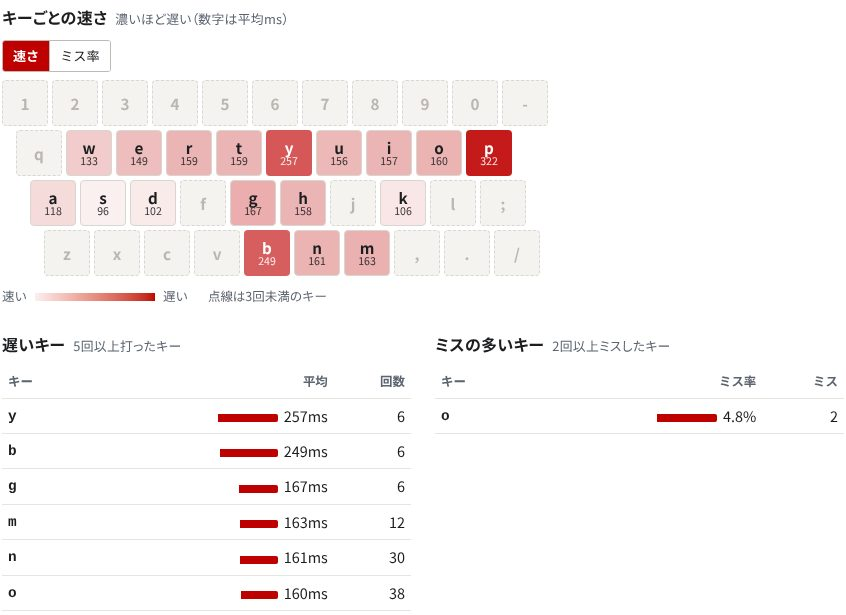
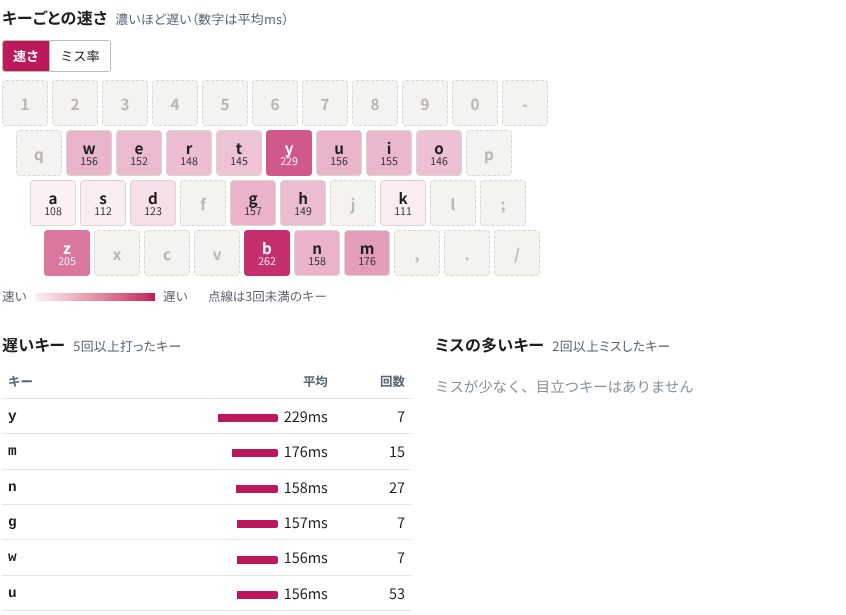
タイピング診断を「学習」のカテゴリに移す
分野の色・パンくず・同じカテゴリのツール・トップとカテゴリの一覧・OGP画像を学習に合わせ、
診断結果の例の画像も学習の色で撮り直す。

Claude-Session: https://claude.ai/code/session_01SKh1jhAp32CEmbZCaaEmgk

diff --git a/typing-game/index.html b/typing-game/index.html
@@ -175,8 +175,8 @@ tr.me td{ background:color-mix(in srgb, var(--c) 8%, #fff); font-weight:700; }
 </head>
 <body>
 <!-- BREADCRUMB: scripts/static_html.py が書く。手で書き換えない -->
-<nav class="breadcrumb" aria-label="パンくずリスト"><a href="/">ToolDock</a> <span class="bc-sep">›</span> <a href="/category/?cat=game">ゲーム</a> <span class="bc-sep">›</span> <span>タイピング診断・速度測定（苦手キー分析つき）</span></nav>
-<script type="application/ld+json">{"@context": "https://schema.org", "@type": "BreadcrumbList", "itemListElement": [{"@type": "ListItem", "position": 1, "name": "ToolDock", "item": "https://tooldock.github.io/"}, {"@type": "ListItem", "position": 2, "name": "ゲーム", "item": "https://tooldock.github.io/category/?cat=game"}, {"@type": "ListItem", "position": 3, "name": "タイピング診断・速度測定（苦手キー分析つき）", "item": "https://tooldock.github.io/typing-game/"}]}</script>
+<nav class="breadcrumb" aria-label="パンくずリスト"><a href="/">ToolDock</a> <span class="bc-sep">›</span> <a href="/category/?cat=study">学習</a> <span class="bc-sep">›</span> <span>タイピング診断・速度測定（苦手キー分析つき）</span></nav>
+<script type="application/ld+json">{"@context": "https://schema.org", "@type": "BreadcrumbList", "itemListElement": [{"@type": "ListItem", "position": 1, "name": "ToolDock", "item": "https://tooldock.github.io/"}, {"@type": "ListItem", "position": 2, "name": "学習", "item": "https://tooldock.github.io/category/?cat=study"}, {"@type": "ListItem", "position": 3, "name": "タイピング診断・速度測定（苦手キー分析つき）", "item": "https://tooldock.github.io/typing-game/"}]}</script>
 <!-- /BREADCRUMB -->
 
 <div class="container">
@@ -308,8 +308,8 @@ tr.me td{ background:color-mix(in srgb, var(--c) 8%, #fff); font-weight:700; }
 
 <h2>診断結果の例</h2>
 <p>60秒、日本語の短文を打ったときの結果の例です。スコアと段位、速さ（KPM）、初速、正確率などが出ます。</p>
-<figure class="ex-fig"><img src="/typing-game/sample-result.jpg" width="846" height="316" loading="lazy" alt="タイピング診断の結果の例。スコア382・三段、速さ394打/分、初速0.18秒、正確率98.5%"></figure>
-<p>その下に、キーごとの速さがキーボードの図で出ます。この例では y と b と p が濃く、ほかのキーより時間がかかっていることが分かります。y と b は人差し指を大きく伸ばすキーで、遅くなりやすい場所です。</p>
+<figure class="ex-fig"><img src="/typing-game/sample-result.jpg" width="846" height="316" loading="lazy" alt="タイピング診断の結果の例。スコア409・四段、速さ415打/分、初速0.14秒、正確率99.3%"></figure>
+<p>その下に、キーごとの速さがキーボードの図で出ます。この例では b と y と z が濃く、ほかのキーより時間がかかっていることが分かります。b と y は人差し指を大きく伸ばすキー、z は小指で下の段を打つキーで、どちらも遅くなりやすい場所です。</p>
 <figure class="ex-fig"><img src="/typing-game/sample-analysis.jpg" width="846" height="615" loading="lazy" alt="キーごとの速さを色の濃さで表したキーボードの図と、遅いキー・ミスの多いキーの表"></figure>
 
 <h2>このタイピング診断でわかること</h2>
@@ -1143,17 +1143,11 @@ applyOpt(); idle(); hud(); renderAna(); renderHist(); badge(); fetchToken(); loa
 <section class="related-tools-section">
 <h2>同じカテゴリのツール</h2>
 <div class="related-tools-grid">
-<a href="/kyudan-clicker/" class="related-tool-card"><h3>球団経営クリッカー</h3><p>球場をタップしてファンを増やす、ドット絵の野球クリッカーゲーム。施設・試合・優勝・殿堂・実績とやり込み要素たっぷり。球団名とユニフォームの色も決められます。</p></a>
-<a href="/mylife-start/" class="related-tool-card"><h3>パワプロ2026-2027 マイライフ アピールポイントのすゝめ</h3><p>経歴・ドラフト順位・アピールポイント・ウィークポイントによる初期能力とボーナスの解説です。</p></a>
-<a href="/eikan-kintoku/" class="related-tool-card"><h3>パワプロ2026-2027 栄冠ナイン 金特の入手方法まとめ</h3><p>金特本・国際大会・特訓の3つの手段。欲しい金特から狙う評価を逆引きできます。</p></a>
-<a href="/shippo/" class="related-tool-card"><h3>パワプロ2026-2027 マイライフ 尻尾 入手方法一覧</h3><p>尻尾12種の入手方法とオススメ度。9個でMAXになるので、あと何個かも分かります。</p></a>
-<a href="/crystal-banno/" class="related-tool-card"><h3>パワプロ2026-2027 マイライフ 万能クリスタル（小）（大）入手方法一覧</h3><p>万能クリスタル（小）9通りと（大）の入手方法を、チェックしながら管理できる一覧。</p></a>
-<a href="/crystal/" class="related-tool-card"><h3>パワプロ2026-2027 マイライフ イベントクリスタル（小）（大）入手方法一覧</h3><p>特殊能力ファイルに使うイベントクリスタルの入手方法と、怪しい露店の交換レート一覧。</p></a>
-<a href="/kintoku/" class="related-tool-card"><h3>パワプロ2026-2027 マイライフ 能力研究所の金特ミッション一覧</h3><p>マイライフの能力研究所で受けられる金特ミッションの内容と取得条件の一覧。2024-2025 とも共通です。</p></a>
-<a href="/satei/" class="related-tool-card"><h3>パワプロ2026-2027 ⭐(星)計算ツール</h3><p>能力値と所持する特殊能力を入力すると、査定である☆(星)を計算します。</p></a>
-<a href="/nouryoku/" class="related-tool-card"><h3>パワプロ風 能力画像ジェネレーター（野手）</h3><p>パワプロ風の能力画像を作れる能力メーカー。野手の能力値と特殊能力を入れるだけで、選手能力カード風の画像を作成できます。</p></a>
-<a href="/nouryoku-pitcher/" class="related-tool-card"><h3>パワプロ風 能力画像ジェネレーター（投手）</h3><p>パワプロ風の能力画像を作れる能力メーカー。投手の能力値・変化球と特殊能力を入れるだけで、選手能力カード風の画像を作成できます。</p></a>
-<a href="/stamen/" class="related-tool-card"><h3>パワプロ風 スタメン画像ジェネレーター</h3><p>名前・守備位置・調子を入れるだけで、パワプロ風のスターティングオーダーを画像・GIFアニメ・動画にできます。</p></a>
+<a href="/gpa/" class="related-tool-card"><h3>GPA計算ツール（目標から逆算）</h3><p>科目の単位と成績から学期・通算のGPAを計算。目標のGPAに必要な平均と、Sがあと何単位必要かを逆算できます。</p></a>
+<a href="/naishin/aichi/" class="related-tool-card"><h3>愛知県 内申点・校内順位の計算（2027年入試）</h3><p>中3の評定から評定得点（90点）を出し、志望校の方式（Ⅰ〜Ⅴ）で学力検査（110点）と合わせた数値を計算。目標に必要な当日点も逆算。</p></a>
+<a href="/naishin/kanagawa/" class="related-tool-card"><h3>神奈川県 内申点・S値計算（2027年入試）</h3><p>志望校の比率で内申点・S1値・S2値を計算し、目標のS値に必要な当日点も逆算できるツール。普通科109校の選考基準を収録。</p></a>
+<a href="/naishin/osaka/" class="related-tool-card"><h3>大阪府 内申点・総合点計算（2027年入試）</h3><p>中1〜中3の評定から内申点（450点）を出し、志望校の倍率タイプで総合点（900点）を計算。目標に必要な当日点も逆算。全日制124校を収録。</p></a>
+<a href="/naishin/tokyo/" class="related-tool-card"><h3>東京都 内申点・換算内申計算（2027年都立入試）</h3><p>中3の評定から換算内申・調査書点を出し、当日点とスピーキングテストを足した総合得点（1020点）と、目標に必要な当日点を計算。</p></a>
 </div>
 </section>
 <!-- /RELATED --></div>

diff --git a/index.html b/index.html
@@ -222,8 +222,8 @@ ToolDockは、ブラウザだけで使える無料のWebツールを集めたサ
     <a class="c-tax" href="#cat-tax">税金<span>4</span></a>
     <a class="c-work" href="#cat-work">業務<span>8</span></a>
     <a class="c-math" href="#cat-math">数学<span>10</span></a>
-    <a class="c-study" href="#cat-study">学習<span>5</span></a>
-    <a class="c-game" href="#cat-game">ゲーム<span>12</span></a>
+    <a class="c-study" href="#cat-study">学習<span>6</span></a>
+    <a class="c-game" href="#cat-game">ゲーム<span>11</span></a>
     <a class="c-baseball" href="#cat-baseball">野球<span>10</span></a>
   </nav>
   <section class="cat" id="updates">
@@ -323,20 +323,20 @@ ToolDockは、ブラウザだけで使える無料のWebツールを集めたサ
   </ul>
   </section>
   <section class="cat c-study" id="cat-study">
-  <h2>学習<span class="cat-n">5</span></h2>
+  <h2>学習<span class="cat-n">6</span></h2>
   <ul class="tool-grid">
     <li><a class="tool-card c-study" href="/gpa/"><span class="tc-title">GPA計算ツール（目標から逆算）</span><span class="tc-desc">科目の単位と成績から学期・通算のGPAを計算。目標のGPAに必要な平均と、Sがあと何単位必要かを逆算できます。</span></a></li>
     <li><a class="tool-card c-study" href="/naishin/aichi/"><span class="tc-title">愛知県 内申点・校内順位の計算（2027年入試）</span><span class="tc-desc">中3の評定から評定得点（90点）を出し、志望校の方式（Ⅰ〜Ⅴ）で学力検査（110点）と合わせた数値を計算。目標に必要な当日点も逆算。</span></a></li>
     <li><a class="tool-card c-study" href="/naishin/kanagawa/"><span class="tc-title">神奈川県 内申点・S値計算（2027年入試）</span><span class="tc-desc">志望校の比率で内申点・S1値・S2値を計算し、目標のS値に必要な当日点も逆算できるツール。普通科109校の選考基準を収録。</span></a></li>
     <li><a class="tool-card c-study" href="/naishin/osaka/"><span class="tc-title">大阪府 内申点・総合点計算（2027年入試）</span><span class="tc-desc">中1〜中3の評定から内申点（450点）を出し、志望校の倍率タイプで総合点（900点）を計算。目標に必要な当日点も逆算。全日制124校を収録。</span></a></li>
     <li><a class="tool-card c-study" href="/naishin/tokyo/"><span class="tc-title">東京都 内申点・換算内申計算（2027年都立入試）</span><span class="tc-desc">中3の評定から換算内申・調査書点を出し、当日点とスピーキングテストを足した総合得点（1020点）と、目標に必要な当日点を計算。</span></a></li>
+    <li><a class="tool-card c-study" href="/typing-game/"><span class="tc-title">タイピング診断・速度測定（苦手キー分析つき）</span><span class="tc-desc">打つだけでタイピングの速さ（KPM）と正確率を測り、苦手キー・指ごとの速さ・遅い並び・ローマ字のクセまで診断する無料タイピングゲーム。ランキングつき。</span></a></li>
   </ul>
   </section>
   <section class="cat c-game" id="cat-game">
-  <h2>ゲーム<span class="cat-n">12</span></h2>
+  <h2>ゲーム<span class="cat-n">11</span></h2>
   <ul class="tool-grid">
     <li><a class="tool-card c-game" href="/kyudan-clicker/"><span class="tc-title">球団経営クリッカー</span><span class="tc-desc">球場をタップしてファンを増やす、ドット絵の野球クリッカーゲーム。施設・試合・優勝・殿堂・実績とやり込み要素たっぷり。球団名とユニフォームの色も決められます。</span></a></li>
-    <li><a class="tool-card c-game" href="/typing-game/"><span class="tc-title">タイピング診断・速度測定（苦手キー分析つき）</span><span class="tc-desc">打つだけでタイピングの速さ（KPM）と正確率を測り、苦手キー・指ごとの速さ・遅い並び・ローマ字のクセまで診断する無料タイピングゲーム。ランキングつき。</span></a></li>
     <li><a class="tool-card c-game" href="/mylife-start/"><span class="tc-title">パワプロ2026-2027 マイライフ アピールポイントのすゝめ</span><span class="tc-desc">経歴・ドラフト順位・アピールポイント・ウィークポイントによる初期能力とボーナスの解説です。</span></a></li>
     <li><a class="tool-card c-game" href="/eikan-kintoku/"><span class="tc-title">パワプロ2026-2027 栄冠ナイン 金特の入手方法まとめ</span><span class="tc-desc">金特本・国際大会・特訓の3つの手段。欲しい金特から狙う評価を逆引きできます。</span></a></li>
     <li><a class="tool-card c-game" href="/shippo/"><span class="tc-title">パワプロ2026-2027 マイライフ 尻尾 入手方法一覧</span><span class="tc-desc">尻尾12種の入手方法とオススメ度。9個でMAXになるので、あと何個かも分かります。</span></a></li>

diff --git a/category/index.html b/category/index.html
@@ -132,7 +132,7 @@
   <a class="tool-card c-math" data-cat="math" href="/ode/"><h2>途中式付き・微分方程式ツール</h2><p>変数分離形から二階定係数線形まで、10種類の微分方程式を途中式つきで解くツール。</p></a>
   <a class="tool-card c-math" data-cat="math" href="/radix/"><h2>n進数変換ツール</h2><p>2進数・8進数・10進数・16進数など、2〜36進法の相互変換を行うツール。小数にも対応。</p></a>
   <a class="tool-card c-game" data-cat="game" href="/kyudan-clicker/"><h2>球団経営クリッカー</h2><p>球場をタップしてファンを増やす、ドット絵の野球クリッカーゲーム。施設・試合・優勝・殿堂・実績とやり込み要素たっぷり。球団名とユニフォームの色も決められます。</p></a>
-  <a class="tool-card c-game" data-cat="game" href="/typing-game/"><h2>タイピング診断・速度測定（苦手キー分析つき）</h2><p>打つだけでタイピングの速さ（KPM）と正確率を測り、苦手キー・指ごとの速さ・遅い並び・ローマ字のクセまで診断する無料タイピングゲーム。ランキングつき。</p></a>
+  <a class="tool-card c-study" data-cat="study" href="/typing-game/"><h2>タイピング診断・速度測定（苦手キー分析つき）</h2><p>打つだけでタイピングの速さ（KPM）と正確率を測り、苦手キー・指ごとの速さ・遅い並び・ローマ字のクセまで診断する無料タイピングゲーム。ランキングつき。</p></a>
   <a class="tool-card c-game" data-cat="game" href="/mylife-start/"><h2>パワプロ2026-2027 マイライフ アピールポイントのすゝめ</h2><p>経歴・ドラフト順位・アピールポイント・ウィークポイントによる初期能力とボーナスの解説です。</p></a>
   <a class="tool-card c-game" data-cat="game" href="/eikan-kintoku/"><h2>パワプロ2026-2027 栄冠ナイン 金特の入手方法まとめ</h2><p>金特本・国際大会・特訓の3つの手段。欲しい金特から狙う評価を逆引きできます。</p></a>
   <a class="tool-card c-game" data-cat="game" href="/shippo/"><h2>パワプロ2026-2027 マイライフ 尻尾 入手方法一覧</h2><p>尻尾12種の入手方法とオススメ度。9個でMAXになるので、あと何個かも分かります。</p></a>

diff --git a/shippo/index.html b/shippo/index.html
@@ -781,7 +781,6 @@ render();
 <h2>同じカテゴリのツール</h2>
 <div class="related-tools-grid">
 <a href="/kyudan-clicker/" class="related-tool-card"><h3>球団経営クリッカー</h3><p>球場をタップしてファンを増やす、ドット絵の野球クリッカーゲーム。施設・試合・優勝・殿堂・実績とやり込み要素たっぷり。球団名とユニフォームの色も決められます。</p></a>
-<a href="/typing-game/" class="related-tool-card"><h3>タイピング診断・速度測定（苦手キー分析つき）</h3><p>打つだけでタイピングの速さ（KPM）と正確率を測り、苦手キー・指ごとの速さ・遅い並び・ローマ字のクセまで診断する無料タイピングゲーム。ランキングつき。</p></a>
 <a href="/mylife-start/" class="related-tool-card"><h3>パワプロ2026-2027 マイライフ アピールポイントのすゝめ</h3><p>経歴・ドラフト順位・アピールポイント・ウィークポイントによる初期能力とボーナスの解説です。</p></a>
 <a href="/eikan-kintoku/" class="related-tool-card"><h3>パワプロ2026-2027 栄冠ナイン 金特の入手方法まとめ</h3><p>金特本・国際大会・特訓の3つの手段。欲しい金特から狙う評価を逆引きできます。</p></a>
 <a href="/crystal-banno/" class="related-tool-card"><h3>パワプロ2026-2027 マイライフ 万能クリスタル（小）（大）入手方法一覧</h3><p>万能クリスタル（小）9通りと（大）の入手方法を、チェックしながら管理できる一覧。</p></a>

diff --git a/nouryoku-pitcher/index.html b/nouryoku-pitcher/index.html
@@ -1838,7 +1838,6 @@ if (document.fonts && document.fonts.ready) {
 <h2>同じカテゴリのツール</h2>
 <div class="related-tools-grid">
 <a href="/kyudan-clicker/" class="related-tool-card"><h3>球団経営クリッカー</h3><p>球場をタップしてファンを増やす、ドット絵の野球クリッカーゲーム。施設・試合・優勝・殿堂・実績とやり込み要素たっぷり。球団名とユニフォームの色も決められます。</p></a>
-<a href="/typing-game/" class="related-tool-card"><h3>タイピング診断・速度測定（苦手キー分析つき）</h3><p>打つだけでタイピングの速さ（KPM）と正確率を測り、苦手キー・指ごとの速さ・遅い並び・ローマ字のクセまで診断する無料タイピングゲーム。ランキングつき。</p></a>
 <a href="/mylife-start/" class="related-tool-card"><h3>パワプロ2026-2027 マイライフ アピールポイントのすゝめ</h3><p>経歴・ドラフト順位・アピールポイント・ウィークポイントによる初期能力とボーナスの解説です。</p></a>
 <a href="/eikan-kintoku/" class="related-tool-card"><h3>パワプロ2026-2027 栄冠ナイン 金特の入手方法まとめ</h3><p>金特本・国際大会・特訓の3つの手段。欲しい金特から狙う評価を逆引きできます。</p></a>
 <a href="/shippo/" class="related-tool-card"><h3>パワプロ2026-2027 マイライフ 尻尾 入手方法一覧</h3><p>尻尾12種の入手方法とオススメ度。9個でMAXになるので、あと何個かも分かります。</p></a>

diff --git a/nouryoku/index.html b/nouryoku/index.html
@@ -1448,7 +1448,6 @@ if (document.fonts && document.fonts.ready) {
 <h2>同じカテゴリのツール</h2>
 <div class="related-tools-grid">
 <a href="/kyudan-clicker/" class="related-tool-card"><h3>球団経営クリッカー</h3><p>球場をタップしてファンを増やす、ドット絵の野球クリッカーゲーム。施設・試合・優勝・殿堂・実績とやり込み要素たっぷり。球団名とユニフォームの色も決められます。</p></a>
-<a href="/typing-game/" class="related-tool-card"><h3>タイピング診断・速度測定（苦手キー分析つき）</h3><p>打つだけでタイピングの速さ（KPM）と正確率を測り、苦手キー・指ごとの速さ・遅い並び・ローマ字のクセまで診断する無料タイピングゲーム。ランキングつき。</p></a>
 <a href="/mylife-start/" class="related-tool-card"><h3>パワプロ2026-2027 マイライフ アピールポイントのすゝめ</h3><p>経歴・ドラフト順位・アピールポイント・ウィークポイントによる初期能力とボーナスの解説です。</p></a>
 <a href="/eikan-kintoku/" class="related-tool-card"><h3>パワプロ2026-2027 栄冠ナイン 金特の入手方法まとめ</h3><p>金特本・国際大会・特訓の3つの手段。欲しい金特から狙う評価を逆引きできます。</p></a>
 <a href="/shippo/" class="related-tool-card"><h3>パワプロ2026-2027 マイライフ 尻尾 入手方法一覧</h3><p>尻尾12種の入手方法とオススメ度。9個でMAXになるので、あと何個かも分かります。</p></a>

diff --git a/eikan-kintoku/index.html b/eikan-kintoku/index.html
@@ -1262,7 +1262,6 @@ render();
 <h2>同じカテゴリのツール</h2>
 <div class="related-tools-grid">
 <a href="/kyudan-clicker/" class="related-tool-card"><h3>球団経営クリッカー</h3><p>球場をタップしてファンを増やす、ドット絵の野球クリッカーゲーム。施設・試合・優勝・殿堂・実績とやり込み要素たっぷり。球団名とユニフォームの色も決められます。</p></a>
-<a href="/typing-game/" class="related-tool-card"><h3>タイピング診断・速度測定（苦手キー分析つき）</h3><p>打つだけでタイピングの速さ（KPM）と正確率を測り、苦手キー・指ごとの速さ・遅い並び・ローマ字のクセまで診断する無料タイピングゲーム。ランキングつき。</p></a>
 <a href="/mylife-start/" class="related-tool-card"><h3>パワプロ2026-2027 マイライフ アピールポイントのすゝめ</h3><p>経歴・ドラフト順位・アピールポイント・ウィークポイントによる初期能力とボーナスの解説です。</p></a>
 <a href="/shippo/" class="related-tool-card"><h3>パワプロ2026-2027 マイライフ 尻尾 入手方法一覧</h3><p>尻尾12種の入手方法とオススメ度。9個でMAXになるので、あと何個かも分かります。</p></a>
 <a href="/crystal-banno/" class="related-tool-card"><h3>パワプロ2026-2027 マイライフ 万能クリスタル（小）（大）入手方法一覧</h3><p>万能クリスタル（小）9通りと（大）の入手方法を、チェックしながら管理できる一覧。</p></a>

diff --git a/satei/index.html b/satei/index.html
@@ -766,7 +766,6 @@ compute();
 <h2>同じカテゴリのツール</h2>
 <div class="related-tools-grid">
 <a href="/kyudan-clicker/" class="related-tool-card"><h3>球団経営クリッカー</h3><p>球場をタップしてファンを増やす、ドット絵の野球クリッカーゲーム。施設・試合・優勝・殿堂・実績とやり込み要素たっぷり。球団名とユニフォームの色も決められます。</p></a>
-<a href="/typing-game/" class="related-tool-card"><h3>タイピング診断・速度測定（苦手キー分析つき）</h3><p>打つだけでタイピングの速さ（KPM）と正確率を測り、苦手キー・指ごとの速さ・遅い並び・ローマ字のクセまで診断する無料タイピングゲーム。ランキングつき。</p></a>
 <a href="/mylife-start/" class="related-tool-card"><h3>パワプロ2026-2027 マイライフ アピールポイントのすゝめ</h3><p>経歴・ドラフト順位・アピールポイント・ウィークポイントによる初期能力とボーナスの解説です。</p></a>
 <a href="/eikan-kintoku/" class="related-tool-card"><h3>パワプロ2026-2027 栄冠ナイン 金特の入手方法まとめ</h3><p>金特本・国際大会・特訓の3つの手段。欲しい金特から狙う評価を逆引きできます。</p></a>
 <a href="/shippo/" class="related-tool-card"><h3>パワプロ2026-2027 マイライフ 尻尾 入手方法一覧</h3><p>尻尾12種の入手方法とオススメ度。9個でMAXになるので、あと何個かも分かります。</p></a>

diff --git a/crystal-banno/index.html b/crystal-banno/index.html
@@ -779,7 +779,6 @@ render();
 <h2>同じカテゴリのツール</h2>
 <div class="related-tools-grid">
 <a href="/kyudan-clicker/" class="related-tool-card"><h3>球団経営クリッカー</h3><p>球場をタップしてファンを増やす、ドット絵の野球クリッカーゲーム。施設・試合・優勝・殿堂・実績とやり込み要素たっぷり。球団名とユニフォームの色も決められます。</p></a>
-<a href="/typing-game/" class="related-tool-card"><h3>タイピング診断・速度測定（苦手キー分析つき）</h3><p>打つだけでタイピングの速さ（KPM）と正確率を測り、苦手キー・指ごとの速さ・遅い並び・ローマ字のクセまで診断する無料タイピングゲーム。ランキングつき。</p></a>
 <a href="/mylife-start/" class="related-tool-card"><h3>パワプロ2026-2027 マイライフ アピールポイントのすゝめ</h3><p>経歴・ドラフト順位・アピールポイント・ウィークポイントによる初期能力とボーナスの解説です。</p></a>
 <a href="/eikan-kintoku/" class="related-tool-card"><h3>パワプロ2026-2027 栄冠ナイン 金特の入手方法まとめ</h3><p>金特本・国際大会・特訓の3つの手段。欲しい金特から狙う評価を逆引きできます。</p></a>
 <a href="/shippo/" class="related-tool-card"><h3>パワプロ2026-2027 マイライフ 尻尾 入手方法一覧</h3><p>尻尾12種の入手方法とオススメ度。9個でMAXになるので、あと何個かも分かります。</p></a>
